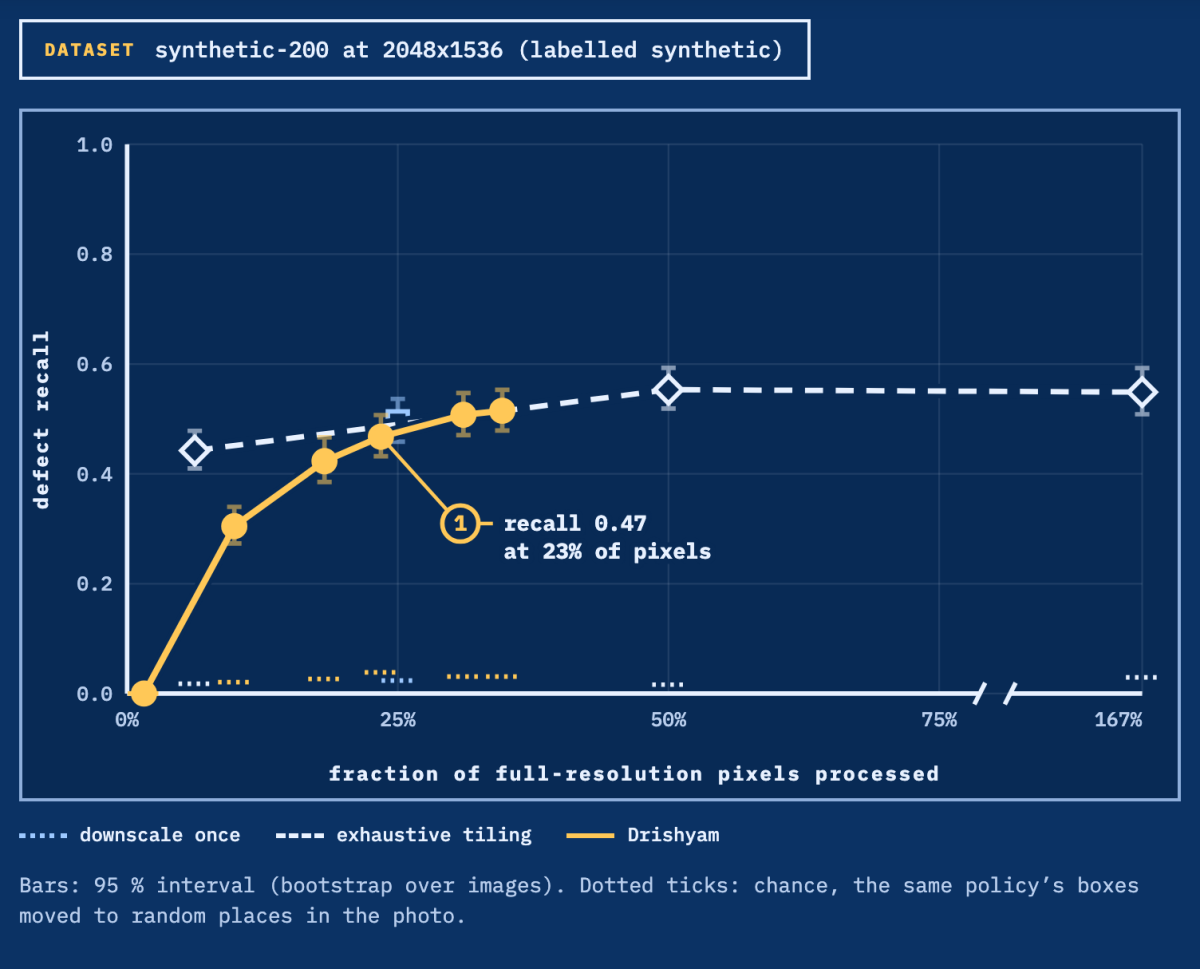
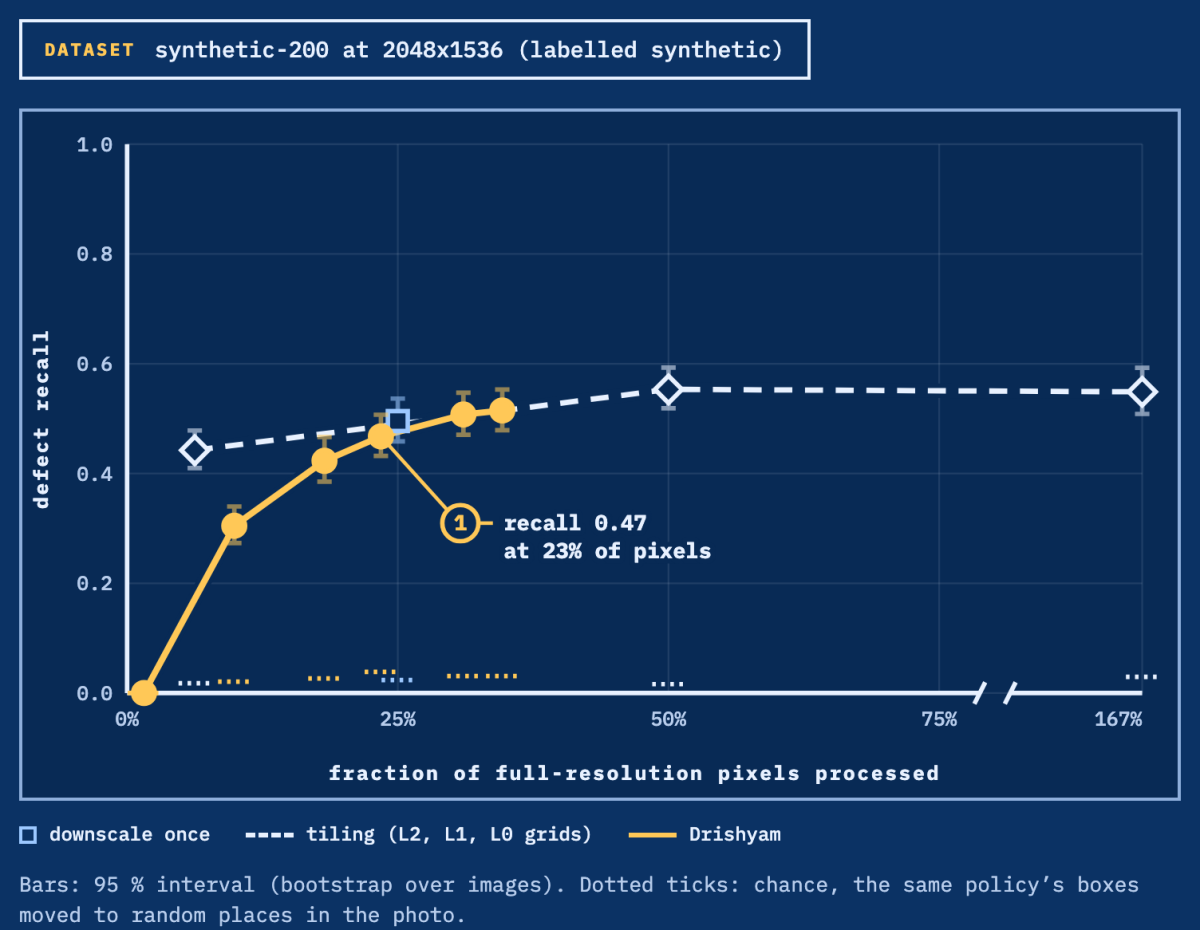
docs: both figures re-rendered by scripts/render_figures.py; architecture REV 1.1.0
The script draws docs/architecture.png from docs/architecture.svg and docs/recall_vs_pixels.png
from the site's own FIG. 4.1 (public/js/results.js on public/results/summary.json); two runs give
a byte-identical recall_vs_pixels.png, and the architecture PNG differs from the last render only
in the two edited labels. README and report say how to re-render. The drawing's REV is the
package version /api/health will report after the redeploy, and the OpenCV-5-only footnote cites
OnnxSegmenter._load instead of the stale segment.py:239 (the call is at line 298).

diff --git a/scripts/render_figures.py b/scripts/render_figures.py
@@ -1,0 +1,67 @@
+"""Re-render the two docs figures with the site's own fonts and code (Playwright and its Chromium, as for the e2e tests):
+
+    uv run --no-project --with playwright==1.63.0 --with opencv-python-headless==5.0.0.93 python scripts/render_figures.py
+
+docs/architecture.png: docs/architecture.svg at 2x. docs/recall_vs_pixels.png: the site's FIG. 4.1 (dataset label,
+chart, legend, marks note), drawn by public/js/results.js from public/results/summary.json, at 2x, scaled to 1200 px
+wide. CHROMIUM=<path> runs a Chromium other than Playwright's own (e.g. an older cached build).
+"""
+
+import functools
+import http.server
+import os
+import threading
+from pathlib import Path
+
+import cv2
+from playwright.sync_api import sync_playwright
+
+ROOT = Path(__file__).resolve().parents[1]
+FONTS = [("IBM Plex Mono", "IBMPlexMono", w) for w in (400, 500, 700)] + [("Archivo Narrow", "ArchivoNarrow", w) for w in (500, 700)]
+
+
+class Quiet(http.server.SimpleHTTPRequestHandler):
+    def log_message(self, *args):
+        pass
+
+
+def architecture(browser) -> None:
+    faces = "".join(f"@font-face{{font-family:'{fam}';font-weight:{w};src:url('{(ROOT / f'public/fonts/{f}-{w}.woff2').as_uri()}')}}"
+                    for fam, f, w in FONTS)
+    page_file = ROOT / "build/architecture.html"
+    page_file.parent.mkdir(exist_ok=True)
+    page_file.write_text(f"<!doctype html><style>{faces}html,body{{margin:0}}svg{{display:block}}</style>"
+                         + (ROOT / "docs/architecture.svg").read_text())
+    pg = browser.new_page(viewport={"width": 1340, "height": 1640}, device_scale_factor=2)
+    pg.goto(page_file.as_uri())
+    pg.evaluate("document.fonts.ready")
+    pg.locator("svg").first.screenshot(path=str(ROOT / "docs/architecture.png"))
+
+
+def fig41(browser) -> None:
+    srv = http.server.ThreadingHTTPServer(("127.0.0.1", 0), functools.partial(Quiet, directory=str(ROOT / "public")))
+    threading.Thread(target=srv.serve_forever, daemon=True).start()
+    pg = browser.new_page(viewport={"width": 1440, "height": 900}, device_scale_factor=2, reduced_motion="reduce")
+    pg.goto(f"http://127.0.0.1:{srv.server_address[1]}/index.html")
+    pg.locator("#bench svg.chart").wait_for()
+    pg.add_style_tag(content="#bench .dataset { justify-self: start; }")  # the label box as wide as its text
+    pg.evaluate("document.fonts.ready")
+    pg.locator("#bench").scroll_into_view_if_needed()
+    pg.wait_for_timeout(800)
+    label, chart, note = (pg.locator(s).first.bounding_box() for s in ("#bench .dataset", "#bench svg.chart", "#bench .bench .note"))
+    pad = 12
+    x0, y0 = chart["x"] - pad, label["y"] - pad
+    out = ROOT / "docs/recall_vs_pixels.png"
+    pg.screenshot(path=str(out), clip={"x": x0, "y": y0, "width": chart["width"] + 2 * pad,
+                                       "height": note["y"] + note["height"] - y0})  # stops above the folded data table
+    srv.shutdown()
+    img = cv2.imread(str(out))
+    cv2.imwrite(str(out), cv2.resize(img, (1200, round(img.shape[0] * 1200 / img.shape[1])), interpolation=cv2.INTER_AREA))
+
+
+if __name__ == "__main__":
+    with sync_playwright() as p:
+        b = p.chromium.launch(executable_path=os.environ.get("CHROMIUM") or None)
+        architecture(b)
+        fig41(b)
+        b.close()

diff --git a/docs/report.md b/docs/report.md
@@ -122,7 +122,7 @@ limits and the cost table, is [aws.md](aws.md).
 | Segment | classical engine: `cvtColor`, `createCLAHE`, `GaussianBlur`, `medianBlur`, `morphologyEx`, `inRange`, `dilate`, `connectedComponentsWithStats`; ONNX engine: `dnn.readNetFromONNX(path, engine=cv2.dnn.ENGINE_NEW)` | `segment.py` |
 | Measure and verify | `morphologyEx` (hit-or-miss thinning), `findContours`, `minAreaRect`, `arcLength`, `approxPolyDP`; cross-level mask IoU through `warpPerspective` and `dilate` | `measure.py`, `agent.py` |
 
-Only one call is specific to OpenCV 5: the `engine=cv2.dnn.ENGINE_NEW` argument (`segment.py:239`), on the opt-in
+Only one call is specific to OpenCV 5: the `engine=cv2.dnn.ENGINE_NEW` argument (`OnnxSegmenter._load` in `segment.py`), on the opt-in
 ONNX path, which `tests/test_segment.py` exercises with a tiny ONNX model. The live demo runs the classical engine,
 so it uses no OpenCV-5-only API; it runs on the stock OpenCV 5.0.0 wheel.
 
@@ -263,7 +263,7 @@ The images are procedural (`evals/synth.py`): 2048×1536 weathered concrete with
 
 ![Recall against pixels processed](recall_vs_pixels.png)
 
-(The live site's FIG. 4.1, rendered from the committed `public/results/summary.json`: bars are the 95 % intervals, dotted ticks the chance level.)
+(The live site's FIG. 4.1, rendered from the committed `public/results/summary.json`: bars are the 95 % intervals, dotted ticks the chance level; `scripts/render_figures.py` re-renders this image.)
 
 Full numbers: [public/results/summary.json](../public/results/summary.json); every prediction and trace: [public/results/per_image.json.gz](../public/results/per_image.json.gz).
 

diff --git a/README.md b/README.md
@@ -85,7 +85,7 @@ Every policy uses one segmenter and one matching rule; the 95 % intervals are a 
 
 ![Recall against pixels processed](docs/recall_vs_pixels.png)
 
-(The live site's FIG. 4.1, rendered from the committed `public/results/summary.json`: bars are the 95 % intervals, dotted ticks the chance level.)
+(The live site's FIG. 4.1, rendered from the committed `public/results/summary.json`: bars are the 95 % intervals, dotted ticks the chance level. `scripts/render_figures.py` re-renders this image and `docs/architecture.png`; like the e2e tests, it needs Playwright.)
 
 Full numbers: [public/results/summary.json](public/results/summary.json), [public/results/large/summary.json](public/results/large/summary.json), [public/results/codebrim/summary.json](public/results/codebrim/summary.json), [public/results/ablations.json](public/results/ablations.json), false alarms on images with no damage: [public/results/clean/summary.json](public/results/clean/summary.json); every prediction and trace: [public/results/per_image.json.gz](public/results/per_image.json.gz); failure gallery: [public/results/failures.json](public/results/failures.json), also on the live site.
 
